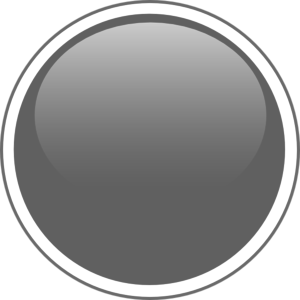
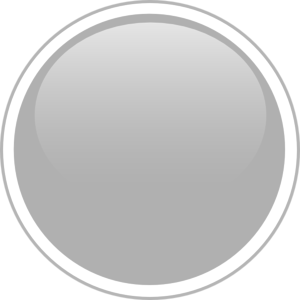
blink needs reworking

diff --git a/gui/main_frame/top_panel/left_panel/left_panel_content.py b/gui/main_frame/top_panel/left_panel/left_panel_content.py
@@ -5,12 +5,12 @@ from settings import Settings, AppData
 from backend.modbus_backend import ModbusConnectionThreadSingleton
 
 
-class ConnectButton(wx.BoxSizer):
+class WrappedButton(wx.BoxSizer):
 
-    def __init__(self, parent, connect_label='Connect', disconnect_label='Disconnect'):
+    def __init__(self, parent, label='Connect'):
         super().__init__(wx.HORIZONTAL)
 
-        self.button = wx.Button(parent=parent, label=connect_label, style=wx.EXPAND, size=(90, 27))
+        self.button = wx.Button(parent=parent, label=label, style=wx.EXPAND, size=(80, 27))
         self.Add(self.button, 1, wx.TOP, 18)
 
 
@@ -20,7 +20,7 @@ class TopLeftPanel(wx.Panel):
         wx.Panel.__init__(self, parent)
 
         self.settings = Settings()
-        self.assets = AppData()
+        self.app_data = AppData()
 
         instance = ModbusConnectionThreadSingleton()
         self.mbus = instance.thread_instance_get()
@@ -35,24 +35,26 @@ class TopLeftPanel(wx.Panel):
                                            interface=LABELED_SPIN_CONTROL,
                                            initial_value=0)
 
-        self.Bind(wx.EVT_BUTTON, self.slave_id_update, self.slave_id.item.button)
+        if hasattr(self.slave_id.item, 'button'):
+            self.Bind(wx.EVT_BUTTON, self.slave_id_update, self.slave_id.item.button)
         self.Bind(wx.EVT_SPINCTRL, self.slave_id_update, self.slave_id.item.spin)
 
-        # self.refresh_rate = LabelValueSequence(parent=self, label='Refresh rate', interface=LABELED_LABEL)
-        # self.checkbox = LabelValueSequence(parent=self, label='Show unused', interface=LABELED_CHECK_BOX)
-
-        self.conn_button = ConnectButton(parent=self)
+        self.conn_button = WrappedButton(parent=self, label='Connect')
+        self.conf_button = WrappedButton(parent=self, label='Setup')
 
         self.Bind(wx.EVT_BUTTON, self.connect_disconnect, self.conn_button.button)
+        self.Bind(wx.EVT_BUTTON, self.connect_disconnect, self.conf_button.button)
 
         self.top_inputs_sizer.Add(self.status)
         self.top_inputs_sizer.Add(self.device_port)
         self.top_inputs_sizer.Add(self.slave_id)
-        # self.top_inputs_sizer.Add(self.refresh_rate)
-        # self.top_inputs_sizer.Add(self.checkbox, 0, wx.TOP, 2)
 
         self.top_left_sizer_v.Add(self.top_inputs_sizer, 0, wx.BOTTOM, 2)
-        self.top_left_sizer_v.Add(self.conn_button, 0, wx.BOTTOM | wx.ALIGN_RIGHT, 5)
+
+        button_sizer = wx.BoxSizer(wx.HORIZONTAL)
+        button_sizer.Add(self.conf_button, 0, wx.BOTTOM | wx.ALIGN_LEFT, 5)
+        button_sizer.Add(self.conn_button, 0, wx.LEFT, 8)
+        self.top_left_sizer_v.Add(button_sizer, 0, wx.TOP, 65)
 
         self.line = wx.StaticLine(self, wx.ID_ANY, style=wx.LI_VERTICAL)
 
@@ -65,30 +67,27 @@ class TopLeftPanel(wx.Panel):
 
         self.SetSizer(self.top_left_sizer_main)
 
-        self.assets.iface_handler_register(self._button_update)
-        self.assets.iface_handler_register(self._port_update)
-        self.assets.iface_handler_register(self._slave_id_update)
-        # self.assets.iface_handler_register(self._refresh_rate_update)
+        self.app_data.iface_handler_register(self._button_update)
+        self.app_data.iface_handler_register(self._port_update)
+        self.app_data.iface_handler_register(self._slave_id_update)
 
     def _button_update(self):
         if self.conn_button:
-            if self.conn_button:
-                try:
-                    if self.mbus.is_connected:
-                        self.conn_button.button.SetLabel('Disconnect')
-                    else:
-                        self.conn_button.button.SetLabel('Connect')
-                except RuntimeError:
-                    pass
+            try:
+                if self.mbus.is_connected:
+                    self.conf_button.button.Enable()
+                    self.conn_button.button.SetLabel('Disconnect')
+                else:
+                    self.conf_button.button.Disable()
+                    self.conn_button.button.SetLabel('Connect')
+            except RuntimeError:
+                pass
 
     def _port_update(self):
         self.device_port.value = self.settings.device_port
 
     def _slave_id_update(self):
         self.slave_id.value = self.settings.slave_id
-
-    def _refresh_rate_update(self):
-        self.refresh_rate.value = self.settings.refresh_rate
 
     def connect_disconnect(self, event):
         if not self.mbus.is_connected:
@@ -111,13 +110,4 @@ class TopLeftPanel(wx.Panel):
 
     def slave_id_update(self, event):
         self.settings.slave_id = self.slave_id.value
-        if not self.mbus.is_connected:
-            self.mbus.slave_id_update(self.settings.slave_id)
-        else:
-            '''
-                implement one more queue method inside of a modbus module for this particular case 
-            '''
-            pass
-            # self.mbus.is_connected_state_set(False)
-            # self.mbus.slave_id_update(self.settings.slave_id)
-            # self.mbus.is_connected_state_set(True)
+        self.mbus.slave_id_update(self.settings.slave_id)

diff --git a/backend/modbus/modbus.py b/backend/modbus/modbus.py
@@ -14,7 +14,7 @@ class ModbusThread(threading.Thread):
 
     def __init__(
             self,
-            method='rtu',
+            conn_method='rtu',
             port='COM2',
             baudrate=19200,
             parity='E',
@@ -32,7 +32,7 @@ class ModbusThread(threading.Thread):
         self.queue_outcome = queue.Queue()
         self.queue_cmd = queue.Queue()
 
-        self.method = method
+        self.method = conn_method
         self.port = port
         self.baudrate = baudrate
         self.parity = parity
@@ -49,6 +49,9 @@ class ModbusThread(threading.Thread):
         self.port_lock = threading.Lock()
         self.sl_id_lock = threading.Lock()
         self.queue_lock = threading.Lock()
+        self.blink_lock = threading.Lock()
+
+        self.blink = False
 
     @property
     def is_connected(self):
@@ -86,7 +89,10 @@ class ModbusThread(threading.Thread):
             with self.sl_id_lock:
                 self.slave_id = new_slave_id
         else:
-            print('Error: Device ID cant be changed while connected!')
+            self.is_connected_state_set(False)
+            with self.sl_id_lock:
+                self.slave_id = new_slave_id
+            self.is_connected_state_set(True)
 
     def stop(self):
         print('Serial Task: command CLOSE')
@@ -111,6 +117,11 @@ class ModbusThread(threading.Thread):
         except Exception as ex:
             print('is connected exception', ex)
 
+    def blink_get(self):
+        with self.blink_lock:
+            blink = self.blink
+        return blink
+
     def run(self):
         while not self.stopped:
 
@@ -122,6 +133,7 @@ class ModbusThread(threading.Thread):
                     self.disconnect()
 
             if self._inner_mbus_is_conn == self.Cmd.CONNECT:
+                self.blink = not self.blink
                 if self.queue_outcome.qsize():
                     try:
                         with self.queue_lock:
@@ -129,6 +141,7 @@ class ModbusThread(threading.Thread):
                             self.client.write_registers(1002, sets, count=4, unit=self.slave_id)
                     except Exception as ex:
                         print(ex)
+                        self.blink = False
                 else:
                     try:
                         with self.queue_lock:
@@ -136,7 +149,9 @@ class ModbusThread(threading.Thread):
                             self.queue_income.put(rr.registers)
                     except Exception as ex:
                         print(ex)
+                        self.blink = False
                 time.sleep(0.05)
             else:
+                self.blink = False
                 time.sleep(0.2)
         print('Serial Task: destroyed')

diff --git a/gui/main_frame/top_panel/right_panel/right_panel_content.py b/gui/main_frame/top_panel/right_panel/right_panel_content.py
@@ -2,6 +2,7 @@ import wx
 from gui.control_inputs.input_array_box import InputArray
 from defs import *
 from settings import AppData
+from backend.modbus_backend import ModbusConnectionThreadSingleton
 
 
 class TopRightPanel(wx.Panel):
@@ -23,7 +24,7 @@ class TopRightPanel(wx.Panel):
             title='State of inputs:',
             interface=DISPLAY_INTERFACE,
             dimension=(3, 5),
-            col_titles=['1', '2', '3', '4', '5'],
+            col_titles=[' 1', ' 2', ' 3', ' 4', ' 5'],
             row_titles=['X3', 'X2', 'X1'],
             orientation=wx.VERTICAL,
             *args,
@@ -53,8 +54,10 @@ class TopRightPanel(wx.Panel):
         self.connection_matrix = InputArray(parent=self, dimension=(1, 1), orientation=wx.VERTICAL,
                                             interface=DISPLAY_INTERFACE, is_input_indication=False,
                                             *args, is_button=True, secret_ids=[5], row_titles=[''],
-                                            outlined=False,
+                                            outlined=False, is_conn=True,
                                             **kwargs)
+        self.prev_state = False
+        self.connection_matrix.visible_instances = (self.prev_state, )
 
         vertical_conn_btn_sizer = wx.BoxSizer(wx.VERTICAL)
 
@@ -67,11 +70,23 @@ class TopRightPanel(wx.Panel):
 
         self.app_data = AppData()
         self.app_data.iface_handler_register(self._inputs_state_update)
+        self.app_data.iface_handler_register(self._conn_indication)
+
+        self.mbus = ModbusConnectionThreadSingleton()
+        self.mbus = self.mbus.modbus_comm_instance
 
         self.SetSizer(inner_panel_sizer)
 
     def _on_mouse_down(self, event):
         print('pressed', event.GetEventObject().parent_class.secret_id)
+
+    def _conn_indication(self):
+        state = self.mbus.is_connected
+        if state != self.prev_state:
+            self.prev_state = state
+            self.connection_matrix.visible_instances = (state, )
+        if self.mbus.is_connected:
+            self.connection_matrix.values = (self.mbus.blink_get(), )
 
     def _inputs_state_update(self):
         if self.app_data.mbus_data:

diff --git a/gui/main_frame/menu_bar/dialog.py b/gui/main_frame/menu_bar/dialog.py
@@ -14,7 +14,7 @@ class SettingsDialog(wx.Dialog):
 
         self.settings = None
 
-        self.SetSize((250, 230))
+        self.SetSize((250, 200))
         self.SetTitle(title)
         self.CenterOnParent()
 
@@ -46,20 +46,12 @@ class SettingsDialog(wx.Dialog):
                                     **kwargs,
                         )
 
-        self.refresh_time = LabelValueSequence(
-                                    parent=self.panel,
-                                    label='Refresh rate',
-                                    interface=LABELED_TEXT_INPUT,
-                                    initial_value=self.settings.refresh_rate,
-                        )
-
         self.button_accept = wx.Button(parent=self.panel, label='Accept')
 
         self.panel.Bind(wx.EVT_BUTTON, self.on_accept, self.button_accept)
 
         self.static_box_sizer.Add(self.port_setup)
         self.static_box_sizer.Add(self.slave_address)
-        self.static_box_sizer.Add(self.refresh_time)
 
         self.panel_sizer.Add(self.static_box_sizer, 0, wx.ALL | wx.ALIGN_CENTER_HORIZONTAL, 15)
         self.panel_sizer.Add(self.button_accept, 0, wx.ALL | wx.ALIGN_CENTER_HORIZONTAL, 3)
@@ -73,7 +65,6 @@ class SettingsDialog(wx.Dialog):
         else:
             self.settings.device_port = self.port_setup.value
         self.settings.slave_id = self.slave_address.value
-        self.settings.refresh_rate = self.refresh_time.value
         self.Destroy()
 
     def on_choice(self, event):
@@ -81,7 +72,6 @@ class SettingsDialog(wx.Dialog):
         if val is None or val == 'None':
             val = None
         self._pending_dev_port = val
-        # self.Destroy()
 
 
 class Ponel(wx.Panel):

diff --git a/gui/control_inputs/app_cells.py b/gui/control_inputs/app_cells.py
@@ -5,11 +5,14 @@ from gui.control_inputs.checkbox_cell import CheckBoxCell
 
 class AppSpecificImageCell(VariableImageCell):
 
-    def __init__(self, parent, is_input_indication=True, *args, **kwargs):
-        if is_input_indication:
-            img_true = './static/images/green_led_button_5.png'
+    def __init__(self, parent, is_input_indication=True, is_conn=False, *args, **kwargs):
+        if is_conn:
+            img_true = './static/images/yellow_led_button_5.png'
         else:
-            img_true = './static/images/red_led_button_5.png'
+            if is_input_indication:
+                img_true = './static/images/green_led_button_5.png'
+            else:
+                img_true = './static/images/red_led_button_5.png'
         img_false = './static/images/disabled_button_5.png'
         super().__init__(parent, true_image_path=img_true, false_image_path=img_false, *args, **kwargs)
 

diff --git a/gui/utils/labeled_data.py b/gui/utils/labeled_data.py
@@ -100,7 +100,10 @@ class _RightColumnChoice(wx.BoxSizer):  # wx.Choices
                 pass
 
 
-class _RightColumnSpinCtrl(wx.BoxSizer):  # wx.SpinCtrl
+class _RightColumnSpinCtrl(wx.BoxSizer):
+    """
+        SPIN CONTROL
+    """
 
     def __init__(
             self,
@@ -108,7 +111,7 @@ class _RightColumnSpinCtrl(wx.BoxSizer):  # wx.SpinCtrl
             parent=None,
             label=None,
             size=None,
-            button_required=True,
+            button_required=False,
             style=None,
             **kwargs
     ):

diff --git a/gui/main_frame/btm_panel/btm_panel_content.py b/gui/main_frame/btm_panel/btm_panel_content.py
@@ -34,7 +34,7 @@ class _BtmPanel(wx.Panel):
         self.sub_canvases = list()
         for i in range(4):
             self.sub_canvases.append(_BtmSubPanel(parent=notebook, aydi=i))
-            notebook.AddPage(self.sub_canvases[i], "Relay: K" + str(1 + i))
+            notebook.AddPage(self.sub_canvases[i], "Group " + str(1 + i))
 
         '''
             Here goes a very important line of a code, setting notebook
